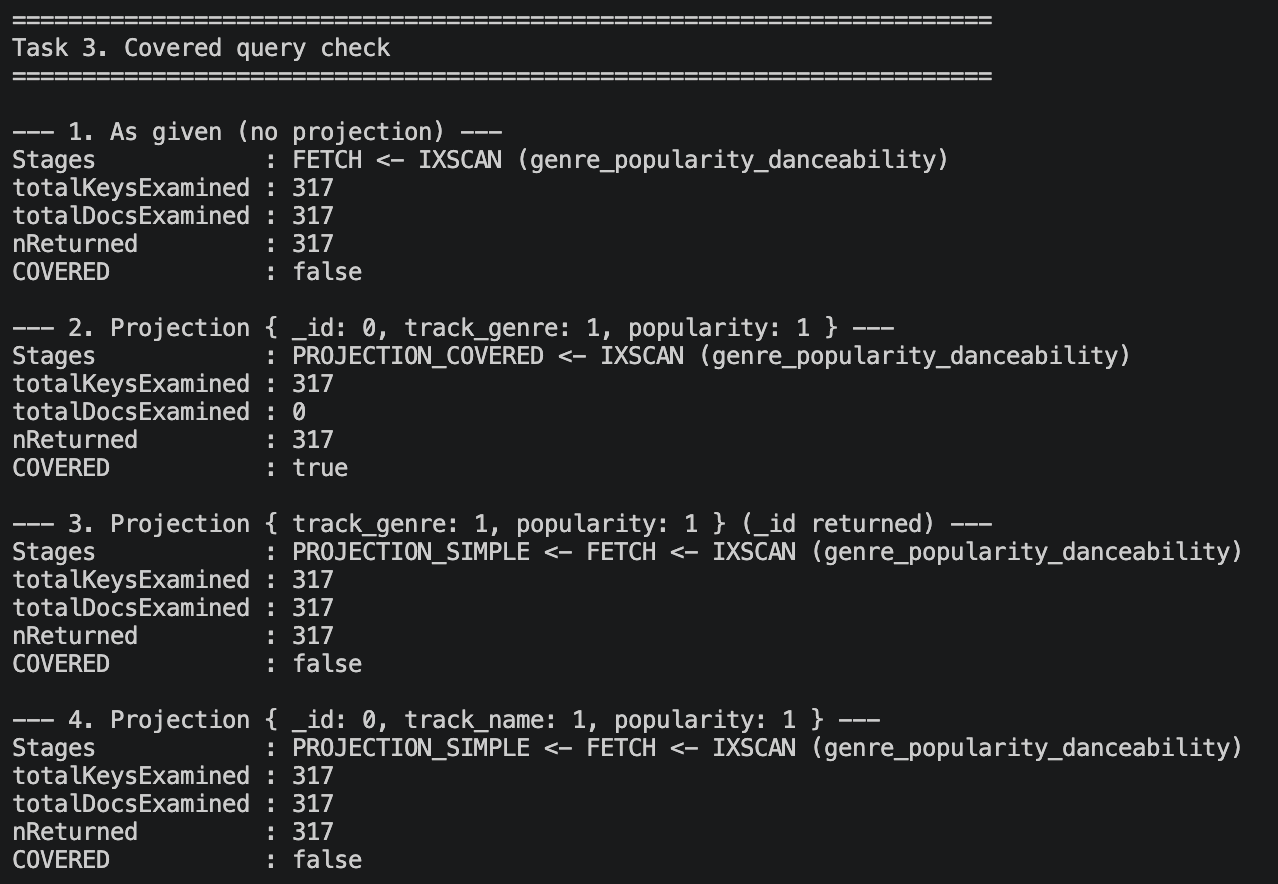
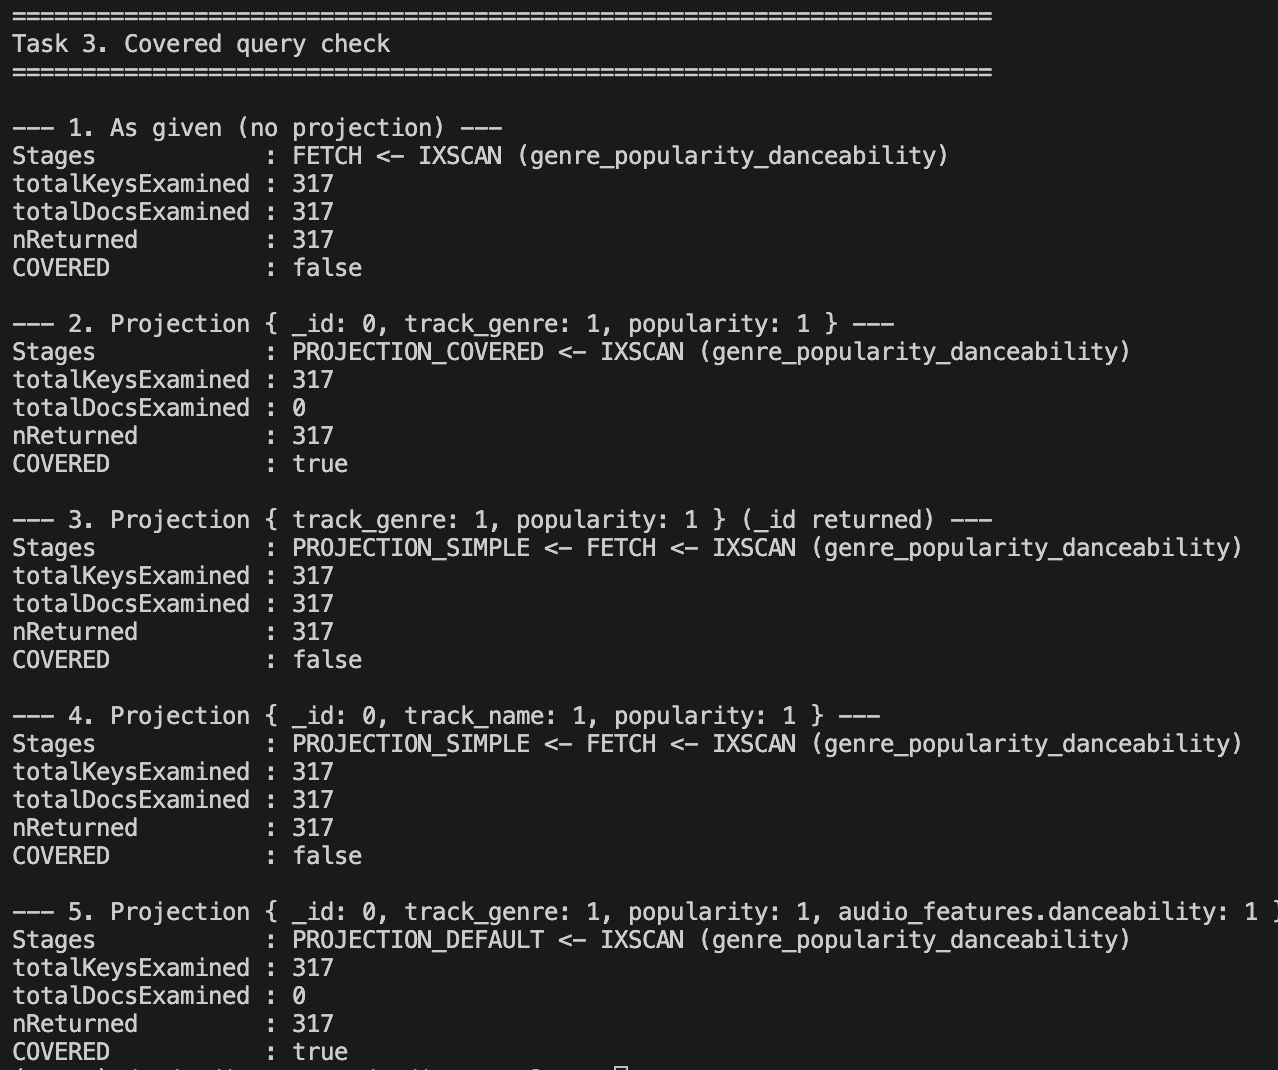
Update README with environment setup, data loading instructions, and schema details; refine queries for popular artists and outlier tracks; add new screenshots for analysis.

Changed region(s): [[0.0, 0.0, 0.9765, 1.0]]

diff --git a/queries/part2_queries.js b/queries/part2_queries.js
@@ -50,13 +50,6 @@ db.tracks
 section("Task 2. Artists with consistently popular tracks (top 20)");
 
 db.tracks.aggregate([
-  {
-    $match: {
-      popularity: {
-        $gte: 60
-      }
-    }
-  },
   { $unwind: "$artists" },
   {
     $group: {
@@ -68,7 +61,8 @@ db.tracks.aggregate([
   },
   {
     $match: {
-      track_count: { $gte: 3 }
+      track_count: { $gte: 3 },
+      min_popularity: { $gte: 60 }
     }
   },
   { $sort: { avg_popularity: -1, track_count: -1, _id: 1 } },
@@ -121,8 +115,8 @@ db.tracks.aggregate([
       outlier_threshold: 1,
       outlier_tracks: {
         $filter: {
-          input: "$tracks", 
-          as: "track",         
+          input: "$tracks",
+          as: "track",
           cond: {
             $gt: [ "$$track.audio_features.tempo", "$outlier_threshold" ]
           }

diff --git a/scripts/01_load_data.py b/scripts/01_load_data.py
@@ -1,5 +1,4 @@
 import os
-import ast
 import pandas as pd
 from pymongo import MongoClient
 from tqdm import tqdm

diff --git a/README.md b/README.md
@@ -1,4 +1,60 @@
 # Medvediev_nosql_1
+
+Spotify tracks dataset (about 114k rows, Kaggle) loaded into MongoDB Atlas, reshaped into a document schema with an aggregation pipeline, queried, and then tuned with indexes.
+
+| Part | Content | Files |
+|---|---|---|
+| 1 | Load the raw data, transform the schema, schema questions | `scripts/01_load_data.py`, `scripts/02_transform.js` |
+| 2 | Four queries | `queries/part2_queries.js` |
+| 3 | Indexes and `explain()` | `queries/part3_indexes.js` |
+
+## Environment setup
+
+**Requirements:** Python 3.11+, [`mongosh`](https://www.mongodb.com/docs/mongodb-shell/install/), and a MongoDB Atlas cluster (the free M0 tier is enough).
+
+1. **Atlas.** Create an M0 cluster, create a database user (Database Access), allow your IP (Network Access), then copy the connection string from Connect -> Drivers.
+2. **Python dependencies.**
+   ```bash
+   python -m venv .venv
+   source .venv/bin/activate
+   pip install -r requirements.txt
+   ```
+3. **`.env`** in the project root (the file is git-ignored). The scripts read the connection string from `MONGODB_URI`:
+   ```
+   MONGODB_URI=mongodb+srv://<user>:<password>@<cluster>.mongodb.net/
+   ```
+4. **Dataset.** The Kaggle CSV is already in `data/dataset.csv`.
+5. **Run the scripts from the project root, in this order:**
+   ```bash
+   set -a; source .env; set +a                      # exports MONGODB_URI to the shell for mongosh
+
+   python scripts/01_load_data.py                   # CSV -> spotify.tracks_raw (flat documents)
+   mongosh "$MONGODB_URI" --file scripts/02_transform.js      # tracks_raw -> spotify.tracks (final schema)
+   mongosh "$MONGODB_URI" --file queries/part2_queries.js     # Part 2 queries
+   mongosh "$MONGODB_URI" --file queries/part3_indexes.js     # Part 3 explain() before/after (creates indexes)
+   ```
+   All scripts are idempotent: `01_load_data.py` drops `tracks_raw` first, `02_transform.js` drops `tracks` first, and `part3_indexes.js` drops its indexes before recreating them.
+
+Expected counts: `tracks_raw` and `tracks` both contain **113,999** documents.
+
+## Data schema
+
+The `spotify.tracks` collection (output of `scripts/02_transform.js`). Compared with the flat CSV, the 12 audio fields moved into `audio_features`, `artists` became an array, and two computed fields were added.
+
+![track raw example](screenshots/1.1%20track%20raw%20example.png)
+![track example](screenshots/1.2%20track%20example.png)
+
+| Field | Type | Notes |
+|---|---|---|
+| `track_id`, `track_name`, `album_name`, `track_genre` | string | `track_id` is not unique, see the note below |
+| `artists` | array of strings | `"Drake; Future"` is split on `;` and trimmed |
+| `popularity` | int | 0-100 |
+| `explicit` | bool | |
+| `duration_ms` | int | |
+| `duration_sec` | double | computed: `duration_ms / 1000`, rounded to 1 decimal |
+| `popularity_tier` | string | computed: `high` (>= 70), `medium` (40-69), `low` (< 40) |
+| `audio_features` | object | `danceability`, `energy`, `loudness`, `speechiness`, `acousticness`, `instrumentalness`, `liveness`, `valence`, `tempo` (doubles), `key`, `mode`, `time_signature` (ints) |
+
 ## Part 1 — Schema design questions
 
 ### Why are the audio characteristics grouped into a nested `audio_features` object instead of being stored flat?
@@ -41,9 +97,68 @@ Queries that become simpler or possible:
 
 **Indexing.** A single index on `artists` becomes a multikey index with one entry per element, so `{ artists: "Drake" }` is an index lookup. A regex search over strings would scan the whole collection.
 
-## Part 3
+Part 2, Task 2 relies on this directly: `$unwind: "$artists"` gives one row per (track, artist) pair, so a collaboration counts for every artist on it.
+
+## Part 2 — Queries
+
+All four queries are in `queries/part2_queries.js`. Every query reads from `spotify.tracks` and uses the nested paths (`audio_features.*`).
+
+### Task 1. Party tracks
+
+```js
+db.tracks.find({
+  "audio_features.danceability": { $gt: 0.7 },
+  "audio_features.energy":       { $gt: 0.7 },
+  duration_ms: { $gte: 180000, $lte: 300000 }
+})
+```
+
+### Task 2. Artists whose tracks are all popular
+
+An artist qualifies if they have **at least 3 tracks** and the **minimum popularity of all their tracks is at least 60**. The pipeline:
+
+1. `$unwind: "$artists"` produces one document per (track, artist) pair.
+2. `$group` by artist over **all** of the artist's tracks: `track_count` (`$sum`), `min_popularity` (`$min`), `avg_popularity` (`$avg`).
+3. `$match: { track_count: { $gte: 3 }, min_popularity: { $gte: 60 } }`. Filtering after the group is what makes "all tracks are popular" true.
+4. `$sort` by `avg_popularity` descending (ties: more tracks first, then name), `$limit: 20`.
+5. `$project` renames `_id` to `artist` and rounds both popularity values to 1 decimal with `$round`.
+
+Top of the result:
+
+| artist | track_count | min_popularity | avg_popularity |
+|---|---|---|---|
+| Harry Styles | 3 | 89 | 92 |
+| Luar La L | 4 | 90 | 90.5 |
+| Olivia Rodrigo | 5 | 86 | 87.4 |
+| BYOR | 4 | 87 | 87 |
+| IVE | 3 | 79 | 84 |
+
+### Task 3. Tracks with unusually high tempo for their genre
+
+An outlier is a track with `tempo > genre mean + 2 * genre standard deviation`. The pipeline:
+
+1. `$group` by `track_genre`: `avg_tempo` with `$avg`, `std_tempo` with `$stdDevPop`, and `$push` of a small summary of each track (`_id`, `track_name`, `popularity`, `artists`, `audio_features.tempo`). 114 genres, about 1,000 tracks each, so the array is far below the 16 MB document limit.
+2. `$addFields` computes `outlier_threshold = avg_tempo + 2 * std_tempo`.
+3. `$project` keeps `genre`, `avg_tempo`, `outlier_threshold`, and builds `outlier_tracks` with `$filter` over the pushed array (`tempo > outlier_threshold`).
+4. `$sort` by genre.
+
+### Task 4. Background work tracks
+
+```js
+db.tracks.find({
+  "audio_features.loudness":         { $lt: -10 },
+  "audio_features.speechiness":      { $lt: 0.1 },
+  "audio_features.instrumentalness": { $gt: 0.5 },
+  explicit: false
+})
+```
+
+## Part 3 — Indexes and optimization (self-study, not graded)
+
+All scripts are in `queries/part3_indexes.js`. The numbers come from `explain("executionStats")` on the real `spotify.tracks` collection.
 
 ### Task 1 — Query analysis and indexing
+
 Query under analysis:
 
 ```js
@@ -53,7 +168,7 @@ db.tracks.find({
 }).sort({ popularity: -1 })
 ```
 
-Index created (in `queries/part3_indexes.js`):
+Index created (ESR order: Equality, Sort, Range):
 
 ```js
 db.tracks.createIndex(
@@ -62,21 +177,36 @@ db.tracks.createIndex(
 )
 ```
 
-The scripts are in `queries/part3_indexes.js`. The numbers below come from `explain("executionStats")` on the real `spotify.tracks` collection (113,999 documents, MongoDB 8.0.39).
+Key `explain()` fields:
 
-### What changed in the execution plan?
+| | Before (no index) | After (compound index) |
+|---|---|---|
+| Plan stages | `SORT` <- `COLLSCAN` | `FETCH` <- `IXSCAN` |
+| Index used | none (only the default `_id_` index exists) | `genre_popularity_danceability` |
+| In-memory `SORT` stage | yes | **no** |
+| `totalKeysExamined` | 0 | 412 |
+| `totalDocsExamined` | **113,999** | **354** |
+| `nReturned` | 354 | 354 |
+| `executionTimeMillis` | 72 | 2 |
 
-![Task 1 index analysis: explain output before](screenshots/3.1%20index%20analysis%20before.png)
-![Task 1 index analysis: explain output after](screenshots/3.1%20index%20analysis%20after.png)
+Before:
+
+![Task 1: explain output before the index](screenshots/3.1%20index%20analysis%20before.png)
+
+After:
+
+![Task 1: explain output after the index](screenshots/3.1%20index%20analysis%20after.png)
+
+#### What changed in the execution plan?
 
 - **Before.** MongoDB had no useful index, so it read every document in the collection (`COLLSCAN`), applied both filters to each one, and then sorted the 354 matches by `popularity` in memory (`SORT`).
 - **After.** MongoDB walks the new index (`IXSCAN`) and fetches only the documents that match (`FETCH`).
   - `track_genre` is an equality, so the scan is restricted to the `"pop"` part of the index.
   - Within that part the entries are already ordered by `popularity` descending, which is the requested order. The `SORT` stage disappeared because the index provides the order.
   - The `danceability >= 0.7` range is checked on the index entries, so non-matching tracks are not fetched from disk. 412 keys were examined, 354 documents were fetched, and each fetched document was a result.
-- **Result.** The same 354 documents are returned, but 322x fewer documents are read and the query is about 60x faster in this run (72 ms -> 2 ms). On a bigger collection the gap would grow, because the collection scan grows with total size while the index scan grows only with the number of `"pop"` entries.
+- **Result.** The same 354 documents are returned, but about 322x fewer documents are read (113,999 -> 354) and the query is about 36x faster in this run (72 ms -> 2 ms). On a bigger collection the gap would grow, because the collection scan grows with total size while the index scan grows only with the number of `"pop"` entries.
 
-### How can we tell that the index is actually used?
+#### How can we tell that the index is actually used?
 
 1. **`queryPlanner.winningPlan`: the stage names.**
    - Index used: the plan contains `IXSCAN`.
@@ -109,7 +239,7 @@ db.tracks.find({
 })
 ```
 
-Index (in `queries/part3_indexes.js`):
+Index:
 
 ```js
 db.tracks.createIndex(
@@ -118,10 +248,26 @@ db.tracks.createIndex(
 )
 ```
 
-**`explain("executionStats")` before and after**:
+`explicit` is an equality, so it goes first. The other two fields are both ranges. Only one range can narrow the index scan tightly, so they are listed after the equality field.
 
-![Task 2 index analysis: explain output before](screenshots/3.2%20index%20analysis%20before.png)
-![Task 2 index analysis: explain output after](screenshots/3.2%20index%20analysis%20after.png)
+Key `explain()` fields:
+
+| | Before (no index) | After |
+|---|---|---|
+| Plan stages | `COLLSCAN` | `FETCH` <- `IXSCAN` |
+| Index used | none | `explicit_instrumentalness_speechiness` |
+| `totalKeysExamined` | 0 | 16,602 |
+| `totalDocsExamined` | 113,999 | 16,141 |
+| `nReturned` | 16,141 | 16,141 |
+| `executionTimeMillis` | 122 | 35 |
+
+Before:
+
+![Task 2: explain output before the index](screenshots/3.2%20index%20analysis%20before.png)
+
+After:
+
+![Task 2: explain output after the index](screenshots/3.2%20index%20analysis%20after.png)
 
 **How the output proves the index is used:**
 
@@ -151,14 +297,35 @@ db.tracks.find({
 A query is covered when MongoDB can answer it using only the index, without reading any document from the collection. Two conditions must both hold:
 
 1. **Every field used in the filter (and sort) is in the index.**
-2. **Every field in the result is in the index.** 
+2. **Every field in the result is in the index.** The result is defined by the projection.
 
 **Condition 1 is met.** The filter uses `track_genre` and `popularity`. Both are keys of the Task 1 index, and the leading key `track_genre` is used with an equality, so the index is usable. The index is also usable even though the third key `danceability` is not part of the filter.
 
-**Condition 2 is not met.** The query has no projection, so it returns **entire documents**. The index contains only `track_genre`, `popularity` and `audio_features.danceability` (plus a pointer to the document). MongoDB has to add a `FETCH` stage and read every matching document from the collection.
+**Condition 2 is not met.** The query has no projection, so it returns **entire documents** (`track_name`, `album_name`, `artists`, `audio_features`, and so on). The index contains only `track_genre`, `popularity` and `audio_features.danceability` (plus a pointer to the document). MongoDB has to add a `FETCH` stage and read every matching document from the collection.
 
 So the index makes the search fast, because it finds the 317 matching entries without scanning 113,999 documents, but it does not cover the query.
 
 **Covered query in `explain()`:** `totalDocsExamined: 0`, no `FETCH` stage, and `PROJECTION_COVERED` (or an `IXSCAN` directly under the projection stage) in `winningPlan`.
 
-![Task 3 covered query analysis](screenshots/3.3%20covered%20query%20analysis.png)
+**How to make it covered.** Project only fields that are in the index, and exclude `_id`:
+
+```js
+db.tracks.find(
+  { track_genre: "pop", popularity: { $gte: 70 } },
+  { _id: 0, track_genre: 1, popularity: 1 }
+)
+```
+
+I tested several projections on the real collection (`checkCovered` in `queries/part3_indexes.js`):
+
+| Projection | Covered? | `totalDocsExamined` | Why |
+|---|---|---|---|
+| none (as given) | No | 317 | whole documents are returned |
+| `{ _id: 0, track_genre: 1, popularity: 1 }` | **Yes** | **0** | only indexed fields, `_id` excluded |
+| `{ track_genre: 1, popularity: 1 }` | No | 317 | `_id` is returned by default and is not in the index |
+| `{ _id: 0, track_name: 1, popularity: 1 }` | No | 317 | `track_name` is not in the index |
+| `{ _id: 0, track_genre: 1, popularity: 1, "audio_features.danceability": 1 }` | **Yes** | **0** | all three fields are in the index |
+
+In all five cases `totalKeysExamined` and `nReturned` are 317.
+
+![Task 3: covered query analysis](screenshots/3.3%20covered%20query%20analysis.png)
